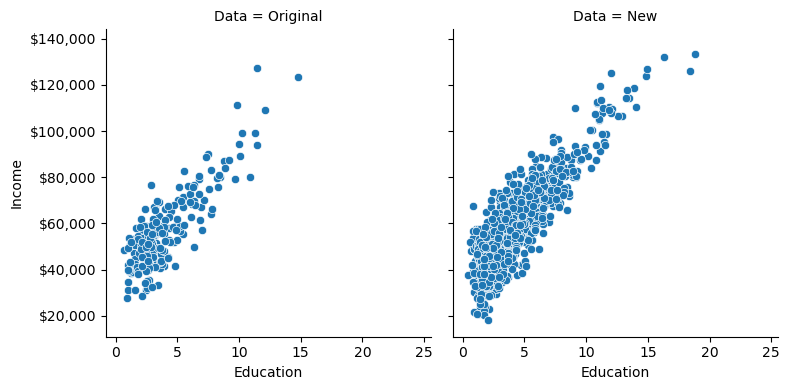
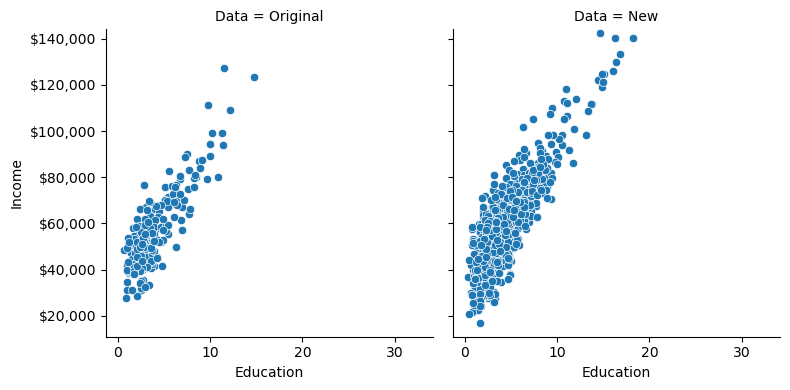
fixed overfitting

diff --git a/docs/posts/overfitting/index.html b/docs/posts/overfitting/index.html
@@ -275,7 +275,7 @@ window.Quarto = {
   }
 });
 </script>
-<div id="cell-1" class="cell" data-execution_count="2">
+<div id="cell-1" class="cell" data-execution_count="28">
 <details class="code-fold">
 <summary>Code</summary>
 <div class="sourceCode cell-code" id="cb1"><pre class="sourceCode python code-with-copy"><code class="sourceCode python"><span id="cb1-1"><a href="#cb1-1" aria-hidden="true" tabindex="-1"></a><span class="im">import</span> numpy <span class="im">as</span> np</span>
@@ -310,7 +310,7 @@ window.Quarto = {
 <h2 class="anchored" data-anchor-id="some-notes-on-modeling-data-and-resampling-methods">Some Notes on Modeling Data and Resampling Methods</h2>
 <p>The following is an exercise with synthetic data intended to memorialize some thoughts on models and resampling methods. I won’t reference a lot of specific books here, but generally this post is influenced by <span class="citation" data-cites="james_introduction_2013">James et al. (<a href="#ref-james_introduction_2013" role="doc-biblioref">2013</a>)</span> and <span class="citation" data-cites="hastie_elements_2016">Hastie, Tibshirani, and Friedman (<a href="#ref-hastie_elements_2016" role="doc-biblioref">2016</a>)</span>.</p>
 <p>To begin, say we are examining the relationship between income and years of education.</p>
-<div id="cell-3" class="cell" data-execution_count="3">
+<div id="cell-3" class="cell" data-execution_count="29">
 <div class="sourceCode cell-code" id="cb2"><pre class="sourceCode python code-with-copy"><code class="sourceCode python"><span id="cb2-1"><a href="#cb2-1" aria-hidden="true" tabindex="-1"></a>df <span class="op">=</span> pd.DataFrame()</span>
 <span id="cb2-2"><a href="#cb2-2" aria-hidden="true" tabindex="-1"></a>np.random.seed(<span class="dv">46</span>)</span>
 <span id="cb2-3"><a href="#cb2-3" aria-hidden="true" tabindex="-1"></a>n <span class="op">=</span> <span class="dv">200</span></span>
@@ -319,14 +319,14 @@ window.Quarto = {
 <span id="cb2-6"><a href="#cb2-6" aria-hidden="true" tabindex="-1"></a>df[<span class="st">"Education"</span>] <span class="op">=</span> education</span></code><button title="Copy to Clipboard" class="code-copy-button"><i class="bi"></i></button></pre></div>
 </div>
 <p>Let’s say that income is a function of years of education:</p>
-<div id="cell-5" class="cell" data-execution_count="5">
+<div id="cell-5" class="cell" data-execution_count="30">
 <div class="sourceCode cell-code" id="cb3"><pre class="sourceCode python code-with-copy"><code class="sourceCode python"><span id="cb3-1"><a href="#cb3-1" aria-hidden="true" tabindex="-1"></a>np.random.seed(<span class="dv">49</span>)</span>
 <span id="cb3-2"><a href="#cb3-2" aria-hidden="true" tabindex="-1"></a>df[<span class="st">"Income"</span>] <span class="op">=</span> <span class="dv">33000</span> <span class="op">+</span> <span class="dv">6000</span> <span class="op">*</span> education</span></code><button title="Copy to Clipboard" class="code-copy-button"><i class="bi"></i></button></pre></div>
 </div>
 <p>The relationship is governed by the deterministic function, which is a data generating process (DGP): <span class="math display">\[
 income = 33000 + 6000 \times education
 \]</span></p>
-<div id="cell-7" class="cell" data-outputid="8f75ca7c-7403-44b5-cf8d-3ff38f6a81a1" data-execution_count="6">
+<div id="cell-7" class="cell" data-outputid="8f75ca7c-7403-44b5-cf8d-3ff38f6a81a1" data-execution_count="31">
 <details class="code-fold">
 <summary>Code</summary>
 <div class="sourceCode cell-code" id="cb4"><pre class="sourceCode python code-with-copy"><code class="sourceCode python"><span id="cb4-1"><a href="#cb4-1" aria-hidden="true" tabindex="-1"></a>g <span class="op">=</span> sns.JointGrid(data<span class="op">=</span>df, x<span class="op">=</span><span class="st">"Education"</span>, y<span class="op">=</span><span class="st">"Income"</span>, marginal_ticks<span class="op">=</span><span class="va">False</span>, height<span class="op">=</span><span class="dv">5</span>)</span>
@@ -349,7 +349,7 @@ income = 33000 + 6000 \times education
 </div>
 </div>
 <p>Modeling this relationship is trivial. Given that it is a deterministic, linear function, we can use data to solve a linear system of equations and find the exact parameters of the relationship:</p>
-<div id="cell-9" class="cell" data-outputid="fe0adcb8-eb9c-440c-8cb4-30d99f7b21fe" data-execution_count="7">
+<div id="cell-9" class="cell" data-outputid="fe0adcb8-eb9c-440c-8cb4-30d99f7b21fe" data-execution_count="32">
 <details class="code-fold">
 <summary>Code</summary>
 <div class="sourceCode cell-code" id="cb5"><pre class="sourceCode python code-with-copy"><code class="sourceCode python"><span id="cb5-1"><a href="#cb5-1" aria-hidden="true" tabindex="-1"></a>fig, ax <span class="op">=</span> plt.subplots(<span class="dv">1</span>, <span class="dv">2</span>, sharey<span class="op">=</span><span class="va">True</span>)</span>
@@ -392,17 +392,17 @@ income = 33000 + 6000 \times education
 <section id="modeling-a-non-deterministic-process" class="level2">
 <h2 class="anchored" data-anchor-id="modeling-a-non-deterministic-process">Modeling a Non-Deterministic Process</h2>
 <p>In policy analysis settings, it’s rare that we would encounter deterministic processes that we have any interest in modeling. Instead, we typically encounter processes with some stochastic element. For example, the following is a new DGP, where income is a linear function of years of education, but with an added random variable, representing noise.</p>
-<div id="cell-12" class="cell" data-execution_count="8">
+<div id="cell-12" class="cell" data-execution_count="33">
 <div class="sourceCode cell-code" id="cb6"><pre class="sourceCode python code-with-copy"><code class="sourceCode python"><span id="cb6-1"><a href="#cb6-1" aria-hidden="true" tabindex="-1"></a>noise_std <span class="op">=</span> <span class="dv">9000</span></span>
 <span id="cb6-2"><a href="#cb6-2" aria-hidden="true" tabindex="-1"></a>DGP <span class="op">=</span> <span class="kw">lambda</span> x: <span class="dv">33000</span> <span class="op">+</span> <span class="dv">6000</span> <span class="op">*</span> x <span class="op">+</span> np.random.normal(<span class="dv">0</span>, noise_std, size<span class="op">=</span><span class="bu">len</span>(x))</span></code><button title="Copy to Clipboard" class="code-copy-button"><i class="bi"></i></button></pre></div>
 </div>
 <p><span class="math display">\[
 income = 33000 + 6000 \times education + \mathcal{N}(0, 9000)
 \]</span></p>
-<div id="cell-14" class="cell" data-execution_count="9">
+<div id="cell-14" class="cell" data-execution_count="34">
 <div class="sourceCode cell-code" id="cb7"><pre class="sourceCode python code-with-copy"><code class="sourceCode python"><span id="cb7-1"><a href="#cb7-1" aria-hidden="true" tabindex="-1"></a>df[<span class="st">"Income"</span>] <span class="op">=</span> DGP(education)</span></code><button title="Copy to Clipboard" class="code-copy-button"><i class="bi"></i></button></pre></div>
 </div>
-<div id="cell-15" class="cell" data-outputid="2dfb6b64-6ffa-4768-80f5-54359720bf68" data-execution_count="10">
+<div id="cell-15" class="cell" data-outputid="2dfb6b64-6ffa-4768-80f5-54359720bf68" data-execution_count="35">
 <details class="code-fold">
 <summary>Code</summary>
 <div class="sourceCode cell-code" id="cb8"><pre class="sourceCode python code-with-copy"><code class="sourceCode python"><span id="cb8-1"><a href="#cb8-1" aria-hidden="true" tabindex="-1"></a>g <span class="op">=</span> sns.JointGrid(data<span class="op">=</span>df, x<span class="op">=</span><span class="st">"Education"</span>, y<span class="op">=</span><span class="st">"Income"</span>, marginal_ticks<span class="op">=</span><span class="va">False</span>, height<span class="op">=</span><span class="dv">5</span>)</span>
@@ -431,7 +431,7 @@ income = 33000 + 6000 \times education + \mathcal{N}(0, 9000)
 <p>We will model this DGP using a linear regression fit via the ordinary least squares algorithm. We face a number of choices in using linear regression – for example, we can freely use polynomial transformations to make our model flexible to non-linear relationships. Here we’ll examine the behavior of a polynomial regression by setting up an infinite series as follows: <span class="math display">\[
 y_p=\sum_{p=0}^{\infty} \beta_p x^p
 \]</span> As this series expands, it represents a polynomial regression of degree <span class="math inline">\(p\)</span>. When we expand, we can examine how this model performs as the degree increases.</p>
-<div id="cell-19" class="cell" data-outputid="01f349b5-33b6-4494-ca23-70338e6a266e" data-execution_count="11">
+<div id="cell-19" class="cell" data-outputid="01f349b5-33b6-4494-ca23-70338e6a266e" data-execution_count="36">
 <details class="code-fold">
 <summary>Code</summary>
 <div class="sourceCode cell-code" id="cb9"><pre class="sourceCode python code-with-copy"><code class="sourceCode python"><span id="cb9-1"><a href="#cb9-1" aria-hidden="true" tabindex="-1"></a>y_max <span class="op">=</span> <span class="dv">3</span></span>
@@ -475,7 +475,7 @@ y_p=\sum_{p=0}^{\infty} \beta_p x^p
 <section id="an-optimal-model" class="level4">
 <h4 class="anchored" data-anchor-id="an-optimal-model">An “Optimal” Model</h4>
 <p>We expand the series, or, in more typical language, we conduct a “grid-search,” to find the optimal model as defined by the maximum <span class="math inline">\(R^2\)</span> score:</p>
-<div id="cell-22" class="cell" data-execution_count="14">
+<div id="cell-22" class="cell" data-execution_count="37">
 <div class="sourceCode cell-code" id="cb10"><pre class="sourceCode python code-with-copy"><code class="sourceCode python"><span id="cb10-1"><a href="#cb10-1" aria-hidden="true" tabindex="-1"></a>r2s <span class="op">=</span> []</span>
 <span id="cb10-2"><a href="#cb10-2" aria-hidden="true" tabindex="-1"></a>max_root <span class="op">=</span> <span class="dv">25</span></span>
 <span id="cb10-3"><a href="#cb10-3" aria-hidden="true" tabindex="-1"></a>roots <span class="op">=</span> <span class="bu">range</span>(max_root)</span>
@@ -484,7 +484,7 @@ y_p=\sum_{p=0}^{\infty} \beta_p x^p
 <span id="cb10-6"><a href="#cb10-6" aria-hidden="true" tabindex="-1"></a>    r2s.append(r2)</span>
 <span id="cb10-7"><a href="#cb10-7" aria-hidden="true" tabindex="-1"></a>r2s <span class="op">=</span> np.array(r2s)</span></code><button title="Copy to Clipboard" class="code-copy-button"><i class="bi"></i></button></pre></div>
 </div>
-<div id="cell-23" class="cell" data-outputid="f1a1c088-82dc-462d-cb0c-9774d8c7883f" data-execution_count="15">
+<div id="cell-23" class="cell" data-outputid="f1a1c088-82dc-462d-cb0c-9774d8c7883f" data-execution_count="38">
 <details class="code-fold">
 <summary>Code</summary>
 <div class="sourceCode cell-code" id="cb11"><pre class="sourceCode python code-with-copy"><code class="sourceCode python"><span id="cb11-1"><a href="#cb11-1" aria-hidden="true" tabindex="-1"></a>fig, ax <span class="op">=</span> plt.subplots(<span class="dv">1</span>, <span class="dv">2</span>)</span>
@@ -537,11 +537,11 @@ y_p=\sum_{p=0}^{\infty} \beta_p x^p
 <section id="out-of-sample-performance-or-what-happens-when-we-collect-new-data" class="level3">
 <h3 class="anchored" data-anchor-id="out-of-sample-performance-or-what-happens-when-we-collect-new-data">Out of sample performance, or, what happens when we collect new data?</h3>
 <p>One simple way to further evaluate this model is to collect new data (from outside of our original sample) and then evaluate whether the model can describe variation in that new data. Given that we are working with synthetic data, it’s straightforward to simulate new observations from the underlying DGP, and thus “collect” new data. In the following plot, the right-hand pane is a fresh sample of individuals with observed education and income values:</p>
-<div id="cell-26" class="cell" data-execution_count="16">
+<div id="cell-26" class="cell" data-execution_count="39">
 <div class="sourceCode cell-code" id="cb12"><pre class="sourceCode python code-with-copy"><code class="sourceCode python"><span id="cb12-1"><a href="#cb12-1" aria-hidden="true" tabindex="-1"></a>education <span class="op">=</span> education_dgp(<span class="dv">1000</span>)</span>
 <span id="cb12-2"><a href="#cb12-2" aria-hidden="true" tabindex="-1"></a>correct_income <span class="op">=</span> DGP(education)</span></code><button title="Copy to Clipboard" class="code-copy-button"><i class="bi"></i></button></pre></div>
 </div>
-<div id="cell-27" class="cell" data-outputid="0009e7f3-42fd-40c7-e2f1-937ea41e41e6" data-execution_count="21">
+<div id="cell-27" class="cell" data-outputid="0009e7f3-42fd-40c7-e2f1-937ea41e41e6" data-execution_count="40">
 <details class="code-fold">
 <summary>Code</summary>
 <div class="sourceCode cell-code" id="cb13"><pre class="sourceCode python code-with-copy"><code class="sourceCode python"><span id="cb13-1"><a href="#cb13-1" aria-hidden="true" tabindex="-1"></a>om_residuals <span class="op">=</span> np.<span class="bu">abs</span>(optimal_model.predict(education.reshape(<span class="op">-</span><span class="dv">1</span>, <span class="dv">1</span>)) <span class="op">-</span> correct_income)</span>
@@ -590,7 +590,7 @@ y_p=\sum_{p=0}^{\infty} \beta_p x^p
 </div>
 </div>
 <p>Here we can see that, when exposed to a new sample from the same DGP, the model produces extreme error.</p>
-<div id="cell-29" class="cell" data-outputid="5b198912-78c0-413c-8c9b-9ee0ff9a3d29" data-execution_count="22">
+<div id="cell-29" class="cell" data-outputid="5b198912-78c0-413c-8c9b-9ee0ff9a3d29" data-execution_count="41">
 <details class="code-fold">
 <summary>Code</summary>
 <div class="sourceCode cell-code" id="cb14"><pre class="sourceCode python code-with-copy"><code class="sourceCode python"><span id="cb14-1"><a href="#cb14-1" aria-hidden="true" tabindex="-1"></a>norm <span class="op">=</span> (<span class="dv">0</span>, <span class="dv">1000000</span>)</span>
@@ -632,7 +632,7 @@ y_p=\sum_{p=0}^{\infty} \beta_p x^p
 </div>
 </div>
 <p>We quantify this error as follows:</p>
-<div id="cell-31" class="cell" data-outputid="c621e93b-d48e-4762-c487-a3628fa6ef76" data-execution_count="23">
+<div id="cell-31" class="cell" data-outputid="c621e93b-d48e-4762-c487-a3628fa6ef76" data-execution_count="42">
 <details class="code-fold">
 <summary>Code</summary>
 <div class="sourceCode cell-code" id="cb15"><pre class="sourceCode python code-with-copy"><code class="sourceCode python"><span id="cb15-1"><a href="#cb15-1" aria-hidden="true" tabindex="-1"></a>rmse <span class="op">=</span> <span class="kw">lambda</span> y, y_hat: np.sqrt(np.mean((y_hat <span class="op">-</span> y) <span class="op">**</span> <span class="dv">2</span>))</span>
@@ -647,7 +647,7 @@ y_p=\sum_{p=0}^{\infty} \beta_p x^p
 <span id="cb15-10"><a href="#cb15-10" aria-hidden="true" tabindex="-1"></a>)</span>
 <span id="cb15-11"><a href="#cb15-11" aria-hidden="true" tabindex="-1"></a><span class="bu">round</span>(output_1, <span class="dv">2</span>)</span></code><button title="Copy to Clipboard" class="code-copy-button"><i class="bi"></i></button></pre></div>
 </details>
-<div class="cell-output cell-output-display" data-execution_count="23">
+<div class="cell-output cell-output-display" data-execution_count="42">
 <div>
 <div>
 
@@ -663,8 +663,8 @@ y_p=\sum_{p=0}^{\infty} \beta_p x^p
 <tbody>
 <tr class="odd">
 <td data-quarto-table-cell-role="th">p=14</td>
-<td>-61001251119051.98</td>
-<td>148514322259.80</td>
+<td>-1975424250597210112.00</td>
+<td>26686561853746.36</td>
 </tr>
 </tbody>
 </table>
@@ -675,7 +675,7 @@ y_p=\sum_{p=0}^{\infty} \beta_p x^p
 </div>
 <p>This is clearly a bad model. What’s worrying is that it <em>seemed</em> like the best model when we simply examined model accuracy on one dataset. This raises the possibility that we might be duped into selecting models like this in practice.</p>
 <p>Out of curiosity, let’s see how an extremely simply model, a linear regression with <span class="math inline">\(p=1\)</span> compares on this new data.</p>
-<div id="cell-33" class="cell" data-outputid="3168df13-bbb7-4424-eb1f-7078bf97e3d7" data-execution_count="24">
+<div id="cell-33" class="cell" data-outputid="3168df13-bbb7-4424-eb1f-7078bf97e3d7" data-execution_count="43">
 <details class="code-fold">
 <summary>Code</summary>
 <div class="sourceCode cell-code" id="cb16"><pre class="sourceCode python code-with-copy"><code class="sourceCode python"><span id="cb16-1"><a href="#cb16-1" aria-hidden="true" tabindex="-1"></a>X_test, y_pred, _, r2, sub_optimal_model <span class="op">=</span> model_data_lm(<span class="dv">1</span>, df)</span>
@@ -722,7 +722,7 @@ y_p=\sum_{p=0}^{\infty} \beta_p x^p
 </div>
 </div>
 <p>This is a very good fit, even though our previous empirical fitting process told us that the high <span class="math inline">\(p\)</span> model was optimal.</p>
-<div id="cell-35" class="cell" data-outputid="914a0d4b-f152-4990-dd36-be73bdc9bbb9" data-execution_count="25">
+<div id="cell-35" class="cell" data-outputid="914a0d4b-f152-4990-dd36-be73bdc9bbb9" data-execution_count="44">
 <details class="code-fold">
 <summary>Code</summary>
 <div class="sourceCode cell-code" id="cb17"><pre class="sourceCode python code-with-copy"><code class="sourceCode python"><span id="cb17-1"><a href="#cb17-1" aria-hidden="true" tabindex="-1"></a>output_2 <span class="op">=</span> pd.DataFrame(</span>
@@ -740,7 +740,7 @@ y_p=\sum_{p=0}^{\infty} \beta_p x^p
 <span id="cb17-13"><a href="#cb17-13" aria-hidden="true" tabindex="-1"></a>)</span>
 <span id="cb17-14"><a href="#cb17-14" aria-hidden="true" tabindex="-1"></a><span class="bu">round</span>(output_2, <span class="dv">2</span>)</span></code><button title="Copy to Clipboard" class="code-copy-button"><i class="bi"></i></button></pre></div>
 </details>
-<div class="cell-output cell-output-display" data-execution_count="25">
+<div class="cell-output cell-output-display" data-execution_count="44">
 <div>
 <div>
 
@@ -756,8 +756,8 @@ y_p=\sum_{p=0}^{\infty} \beta_p x^p
 <tbody>
 <tr class="odd">
 <td data-quarto-table-cell-role="th">p=1</td>
-<td>0.78</td>
-<td>8982.38</td>
+<td>0.77</td>
+<td>9139.36</td>
 </tr>
 </tbody>
 </table>
@@ -773,19 +773,19 @@ y_p=\sum_{p=0}^{\infty} \beta_p x^p
 <h1>The Train-Test Split</h1>
 <p>The process we just went through is analogous to a resampling method called the train-test split.</p>
 <p>In the real world, we rarely can just collect more data. However, it is straightforward to simulate the data collection process using resampling methods. Specifically, we can split our original dataset into two parts – a training dataset, wherein we will train and intially evaluate our model, and a “test” dataset, which we will use just as we used the newly collected data in the previous example, for more objective, empirical model evaluation.</p>
-<div id="cell-38" class="cell" data-execution_count="139">
+<div id="cell-38" class="cell" data-execution_count="45">
 <div class="sourceCode cell-code" id="cb18"><pre class="sourceCode python code-with-copy"><code class="sourceCode python"><span id="cb18-1"><a href="#cb18-1" aria-hidden="true" tabindex="-1"></a>np.random.seed(<span class="dv">40</span>)</span>
 <span id="cb18-2"><a href="#cb18-2" aria-hidden="true" tabindex="-1"></a>train_stop <span class="op">=</span> <span class="bu">int</span>(<span class="fl">0.6</span> <span class="op">*</span> n)</span>
 <span id="cb18-3"><a href="#cb18-3" aria-hidden="true" tabindex="-1"></a>indices <span class="op">=</span> df.sample(frac<span class="op">=</span><span class="dv">1</span>, replace<span class="op">=</span><span class="va">False</span>).index</span>
 <span id="cb18-4"><a href="#cb18-4" aria-hidden="true" tabindex="-1"></a>train_ind <span class="op">=</span> indices[:train_stop]</span></code><button title="Copy to Clipboard" class="code-copy-button"><i class="bi"></i></button></pre></div>
 </div>
 <p>Here we designate 60% of our data as training and 40% as test:</p>
-<div id="cell-40" class="cell" data-outputid="4dc19a4c-129b-47fe-ba91-98546da3127a" data-execution_count="140">
+<div id="cell-40" class="cell" data-outputid="4dc19a4c-129b-47fe-ba91-98546da3127a" data-execution_count="46">
 <div class="sourceCode cell-code" id="cb19"><pre class="sourceCode python code-with-copy"><code class="sourceCode python"><span id="cb19-1"><a href="#cb19-1" aria-hidden="true" tabindex="-1"></a>df.loc[:, <span class="st">"Sample"</span>] <span class="op">=</span> <span class="va">None</span></span>
 <span id="cb19-2"><a href="#cb19-2" aria-hidden="true" tabindex="-1"></a>df.loc[train_ind, <span class="st">"Sample"</span>] <span class="op">=</span> <span class="st">"Train"</span></span>
 <span id="cb19-3"><a href="#cb19-3" aria-hidden="true" tabindex="-1"></a>df.loc[df[<span class="st">"Sample"</span>] <span class="op">!=</span> <span class="st">"Train"</span>, <span class="st">"Sample"</span>] <span class="op">=</span> <span class="st">"Test"</span></span>
 <span id="cb19-4"><a href="#cb19-4" aria-hidden="true" tabindex="-1"></a>df.head()</span></code><button title="Copy to Clipboard" class="code-copy-button"><i class="bi"></i></button></pre></div>
-<div class="cell-output cell-output-display" data-execution_count="140">
+<div class="cell-output cell-output-display" data-execution_count="46">
 <div>
 <div>
 
@@ -838,7 +838,7 @@ y_p=\sum_{p=0}^{\infty} \beta_p x^p
 </div>
 </div>
 <p>Next, we hold the test data aside and only examine the training dataset.</p>
-<div id="cell-42" class="cell" data-outputid="92e9b4a8-7b81-4072-9e88-f9d7d1a87183" data-execution_count="141">
+<div id="cell-42" class="cell" data-outputid="92e9b4a8-7b81-4072-9e88-f9d7d1a87183" data-execution_count="47">
 <details class="code-fold">
 <summary>Code</summary>
 <div class="sourceCode cell-code" id="cb20"><pre class="sourceCode python code-with-copy"><code class="sourceCode python"><span id="cb20-1"><a href="#cb20-1" aria-hidden="true" tabindex="-1"></a>fig, ax <span class="op">=</span> plt.subplots(<span class="dv">1</span>, <span class="dv">3</span>, figsize<span class="op">=</span>(<span class="dv">8</span>, <span class="dv">5</span>))</span>
@@ -885,12 +885,12 @@ y_p=\sum_{p=0}^{\infty} \beta_p x^p
 </div>
 </div>
 <p>We proceed to train models on the training data, and evaluate each model on the test dataset. We do that process for each degree polynomial regression.</p>
-<div id="cell-44" class="cell" data-outputid="33d16cb4-444b-4dcb-86fe-ea9c5a09fa4e" data-execution_count="142">
+<div id="cell-44" class="cell" data-outputid="33d16cb4-444b-4dcb-86fe-ea9c5a09fa4e" data-execution_count="48">
 <details class="code-fold">
 <summary>Code</summary>
 <div class="sourceCode cell-code" id="cb21"><pre class="sourceCode python code-with-copy"><code class="sourceCode python"><span id="cb21-1"><a href="#cb21-1" aria-hidden="true" tabindex="-1"></a>x_max <span class="op">=</span> <span class="dv">2</span></span>
 <span id="cb21-2"><a href="#cb21-2" aria-hidden="true" tabindex="-1"></a>y_max <span class="op">=</span> <span class="dv">4</span></span>
-<span id="cb21-3"><a href="#cb21-3" aria-hidden="true" tabindex="-1"></a>fig, ax <span class="op">=</span> plt.subplots(y_max, x_max, sharey<span class="op">=</span><span class="va">True</span>, sharex<span class="op">=</span><span class="va">True</span>, figsize<span class="op">=</span>(<span class="dv">10</span>, <span class="dv">6</span>))</span>
+<span id="cb21-3"><a href="#cb21-3" aria-hidden="true" tabindex="-1"></a>fig, ax <span class="op">=</span> plt.subplots(y_max, x_max, sharey<span class="op">=</span><span class="va">True</span>, sharex<span class="op">=</span><span class="va">True</span>, figsize<span class="op">=</span>(<span class="dv">8</span>, <span class="dv">6</span>))</span>
 <span id="cb21-4"><a href="#cb21-4" aria-hidden="true" tabindex="-1"></a>degree <span class="op">=</span> <span class="dv">1</span></span>
 <span id="cb21-5"><a href="#cb21-5" aria-hidden="true" tabindex="-1"></a>sub_df <span class="op">=</span> df.query(<span class="st">"Sample == 'Train'"</span>)</span>
 <span id="cb21-6"><a href="#cb21-6" aria-hidden="true" tabindex="-1"></a>test_df <span class="op">=</span> df.query(<span class="st">"Sample == 'Test'"</span>)</span>
@@ -945,7 +945,7 @@ y_p=\sum_{p=0}^{\infty} \beta_p x^p
 </div>
 <p>When we examine the relationship between polynomial degree and <span class="math inline">\(R^2\)</span>, we now seek the argument that maximizes <span class="math inline">\(R^2_{test}\)</span>, rather than <span class="math inline">\(R^2_{train}\)</span>.</p>
 <p>Here we’ll also note that, typically, <span class="math inline">\(R^2_{test} &lt; R^2_{train}\)</span>.</p>
-<div id="cell-46" class="cell" data-outputid="3968621a-abea-49ab-96ba-5abe2a130c74" data-execution_count="144">
+<div id="cell-46" class="cell" data-outputid="3968621a-abea-49ab-96ba-5abe2a130c74" data-execution_count="49">
 <details class="code-fold">
 <summary>Code</summary>
 <div class="sourceCode cell-code" id="cb22"><pre class="sourceCode python code-with-copy"><code class="sourceCode python"><span id="cb22-1"><a href="#cb22-1" aria-hidden="true" tabindex="-1"></a>r2s_test <span class="op">=</span> []</span>
@@ -1009,7 +1009,7 @@ y_p=\sum_{p=0}^{\infty} \beta_p x^p
 <p><span class="math display">\[
 income = 33000 + 6000 \times education + \mathcal{N}(0, 9000)
 \]</span> Indeed, we can see the exact functional form that our optimal model takes:</p>
-<div id="cell-49" class="cell" data-outputid="9c57d3eb-b00d-4a58-c87a-6030d919a101" data-execution_count="145">
+<div id="cell-49" class="cell" data-outputid="9c57d3eb-b00d-4a58-c87a-6030d919a101" data-execution_count="50">
 <div class="sourceCode cell-code" id="cb23"><pre class="sourceCode python code-with-copy"><code class="sourceCode python"><span id="cb23-1"><a href="#cb23-1" aria-hidden="true" tabindex="-1"></a>resid <span class="op">=</span> correct_income <span class="op">-</span> sub_optimal_model.predict(education.reshape(<span class="op">-</span><span class="dv">1</span>, <span class="dv">1</span>))</span>
 <span id="cb23-2"><a href="#cb23-2" aria-hidden="true" tabindex="-1"></a><span class="bu">print</span>(</span>
 <span id="cb23-3"><a href="#cb23-3" aria-hidden="true" tabindex="-1"></a>    <span class="ss">f"income = </span><span class="sc">{</span><span class="bu">round</span>(sub_optimal_model[<span class="dv">1</span>].intercept_, <span class="dv">2</span>)<span class="sc">}</span><span class="ss">"</span></span>
@@ -1024,7 +1024,7 @@ income = 33000 + 6000 \times education + \mathcal{N}(0, 9000)
 <section id="an-aside-about-nonparametric-models" class="level3">
 <h3 class="anchored" data-anchor-id="an-aside-about-nonparametric-models">An Aside about Nonparametric models</h3>
 <p>The issues we just discussed in the context of polynomial regression only compound as we exit the realm of linear regression and consider nonparametric models like tree-based models. For example, when we examine a decision tree model and vary <span class="math inline">\(M\)</span>, the number of partitions of the feature space that the model uses (a measure of complexity), we see extreme divergence between training the testing performance.</p>
-<div id="cell-52" class="cell" data-outputid="6c1e4bbb-45a9-4fa3-b4a0-a31fcba17076" data-execution_count="146">
+<div id="cell-52" class="cell" data-outputid="6c1e4bbb-45a9-4fa3-b4a0-a31fcba17076" data-execution_count="51">
 <details class="code-fold">
 <summary>Code</summary>
 <div class="sourceCode cell-code" id="cb25"><pre class="sourceCode python code-with-copy"><code class="sourceCode python"><span id="cb25-1"><a href="#cb25-1" aria-hidden="true" tabindex="-1"></a><span class="kw">def</span> model_data_cart(degree, df):</span>
@@ -1100,7 +1100,7 @@ income = 33000 + 6000 \times education + \mathcal{N}(0, 9000)
 <span class="math display">\[
 \lim_{M \rightarrow \infty} R_{train}^2 \approx 1.0
 \]</span> Being able to perfectly model a DGP that is in itself random is a worrying sign, and this condition creates especial danger of over-fitting and creating overly-confident models when using decision trees.</p>
-<div id="cell-54" class="cell" data-outputid="02c9e6bd-9687-4167-b614-7e9f2dc857ab" data-execution_count="147">
+<div id="cell-54" class="cell" data-outputid="02c9e6bd-9687-4167-b614-7e9f2dc857ab" data-execution_count="52">
 <details class="code-fold">
 <summary>Code</summary>
 <div class="sourceCode cell-code" id="cb26"><pre class="sourceCode python code-with-copy"><code class="sourceCode python"><span id="cb26-1"><a href="#cb26-1" aria-hidden="true" tabindex="-1"></a>r2s_test_cart <span class="op">=</span> []</span>

diff --git a/docs/blog.html b/docs/blog.html
@@ -286,7 +286,7 @@ Time
 <span class="listing-reading-time">3 min</span>
 </td>
 </tr>
-<tr data-index="4" data-categories="Python,Statistics" data-listing-date-sort="1702022400000" data-listing-file-modified-sort="1711909008493" data-listing-date-modified-sort="NaN" data-listing-reading-time-sort="6" data-listing-word-count-sort="1080" data-listing-title-sort="Train-Test Split" data-listing-filename-sort="index.ipynb">
+<tr data-index="4" data-categories="Python,Statistics" data-listing-date-sort="1702022400000" data-listing-file-modified-sort="1711984930362" data-listing-date-modified-sort="NaN" data-listing-reading-time-sort="6" data-listing-word-count-sort="1080" data-listing-title-sort="Train-Test Split" data-listing-filename-sort="index.ipynb">
 <td>
 <span class="listing-date">Dec 8, 2023</span>
 </td>
